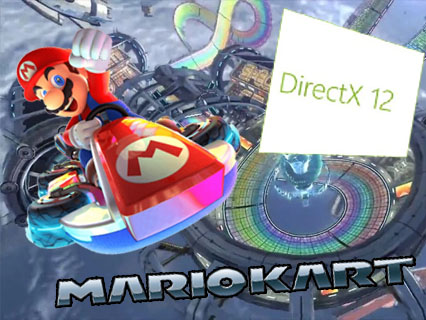
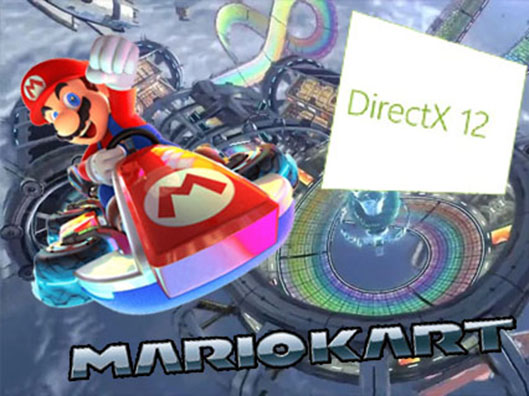
Added dont walk by project and some fixes to title images

diff --git a/index.html b/index.html
@@ -9,7 +9,7 @@ permalink: /
          <div class="col-lg-8 col-lg-offset-2">
             <h4>Latest Posts</h4>
             <div class="hline"></div>
-            {% for post in site.posts limit:10 %}
+            {% for post in site.posts limit:5 %}
             {% if post.published == true %}
                 <p><a href="{{ post.url | prepend: site.baseurl }}">{{ post.title }}.</a></p>
             {% endif %}
